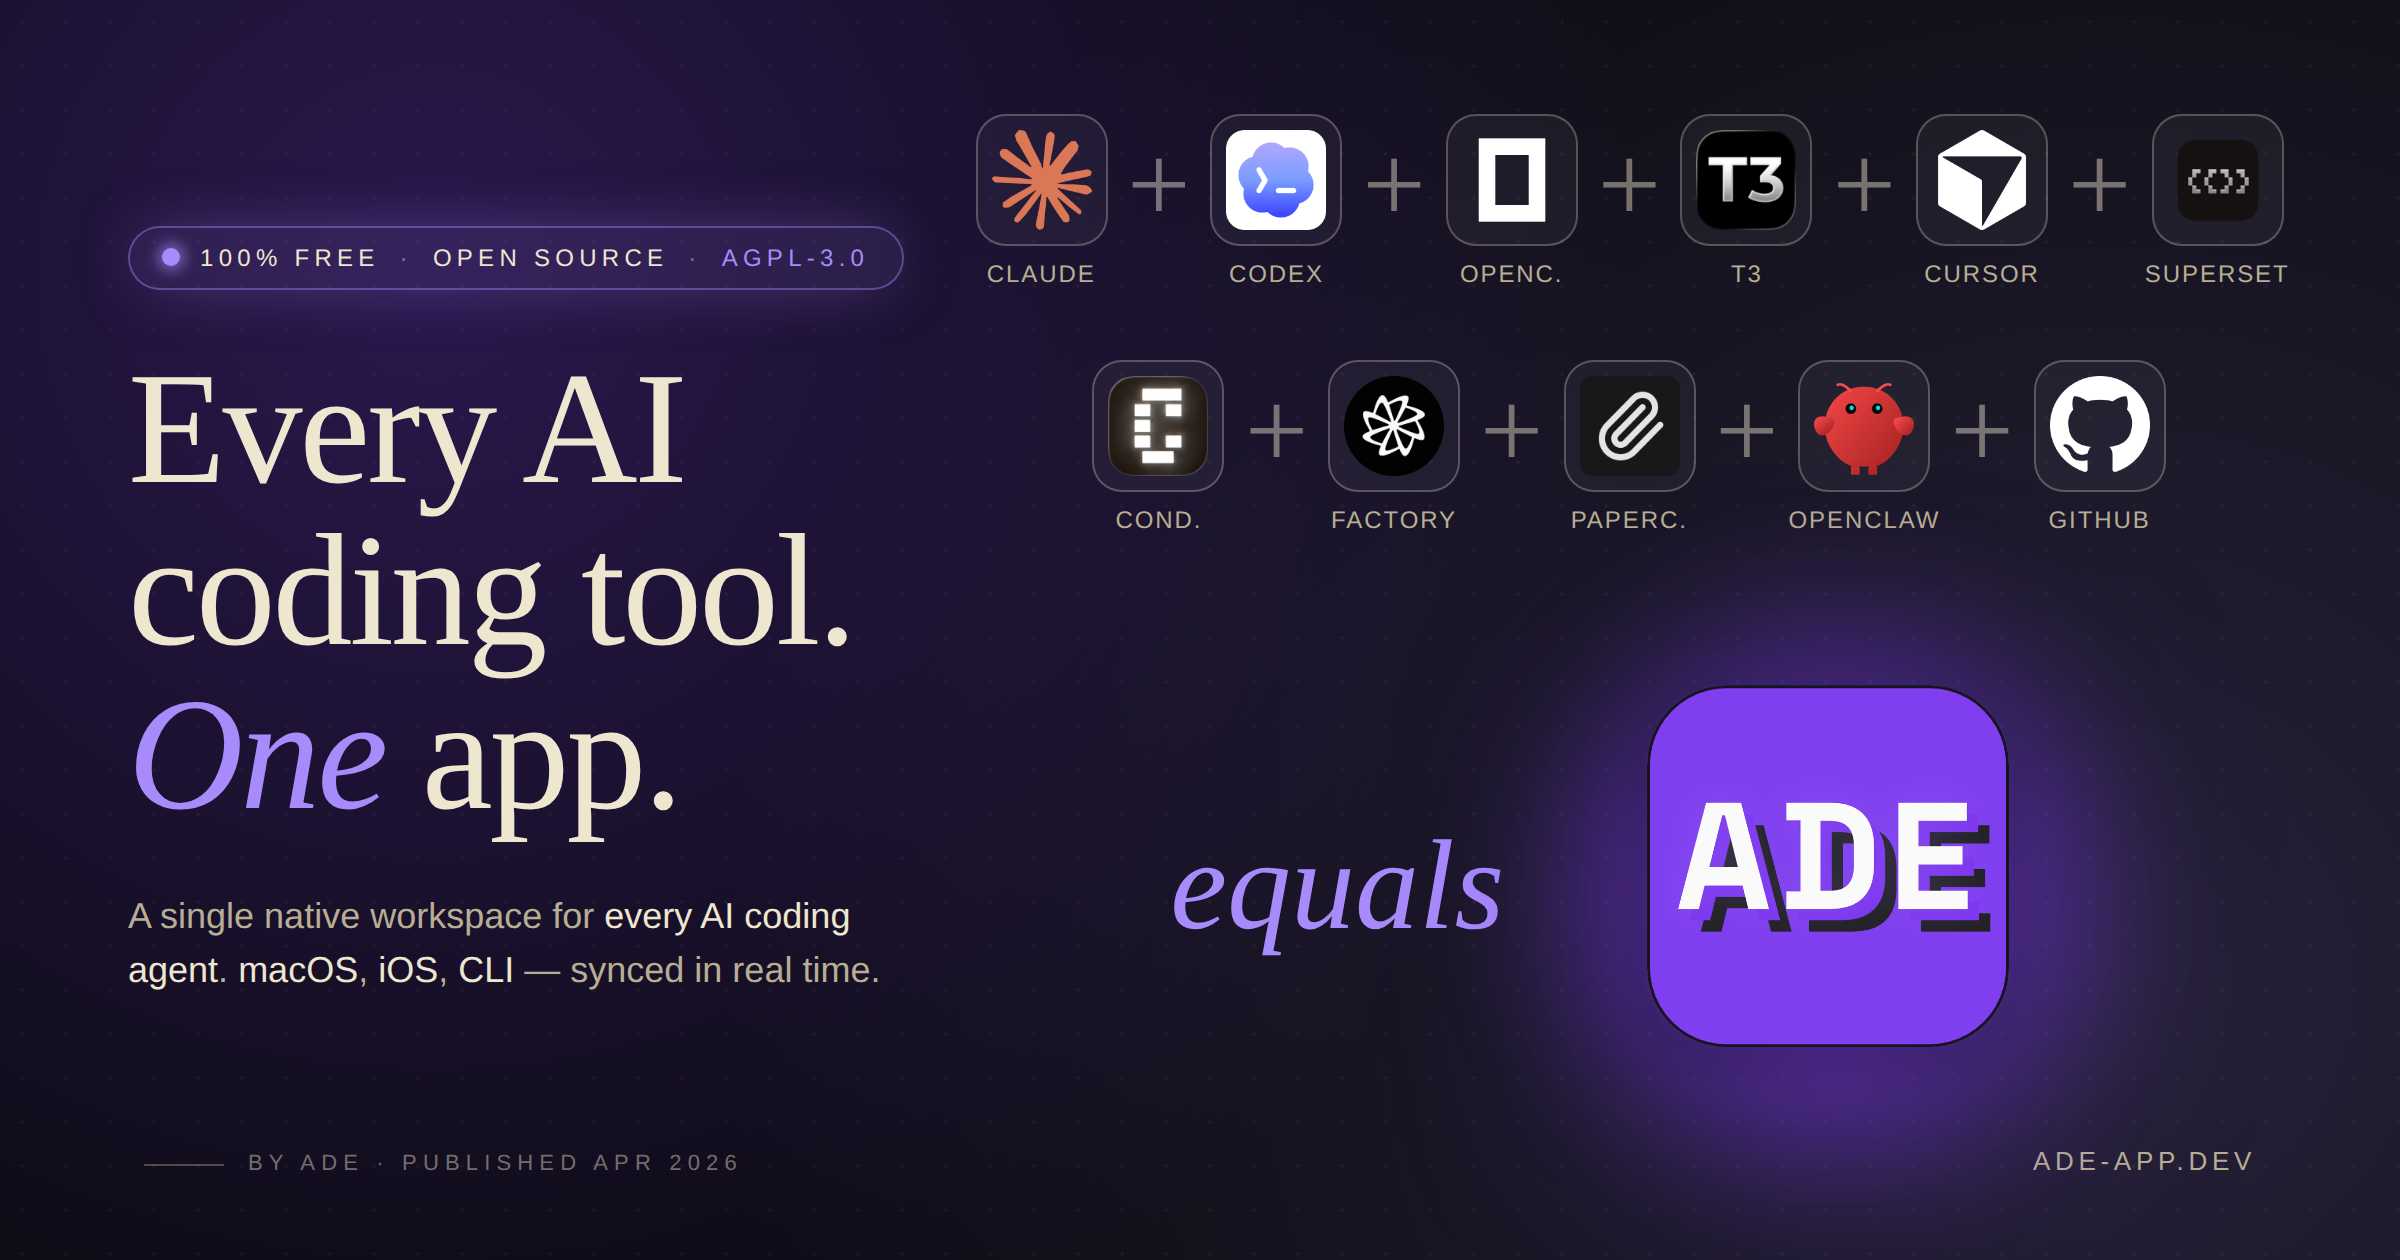
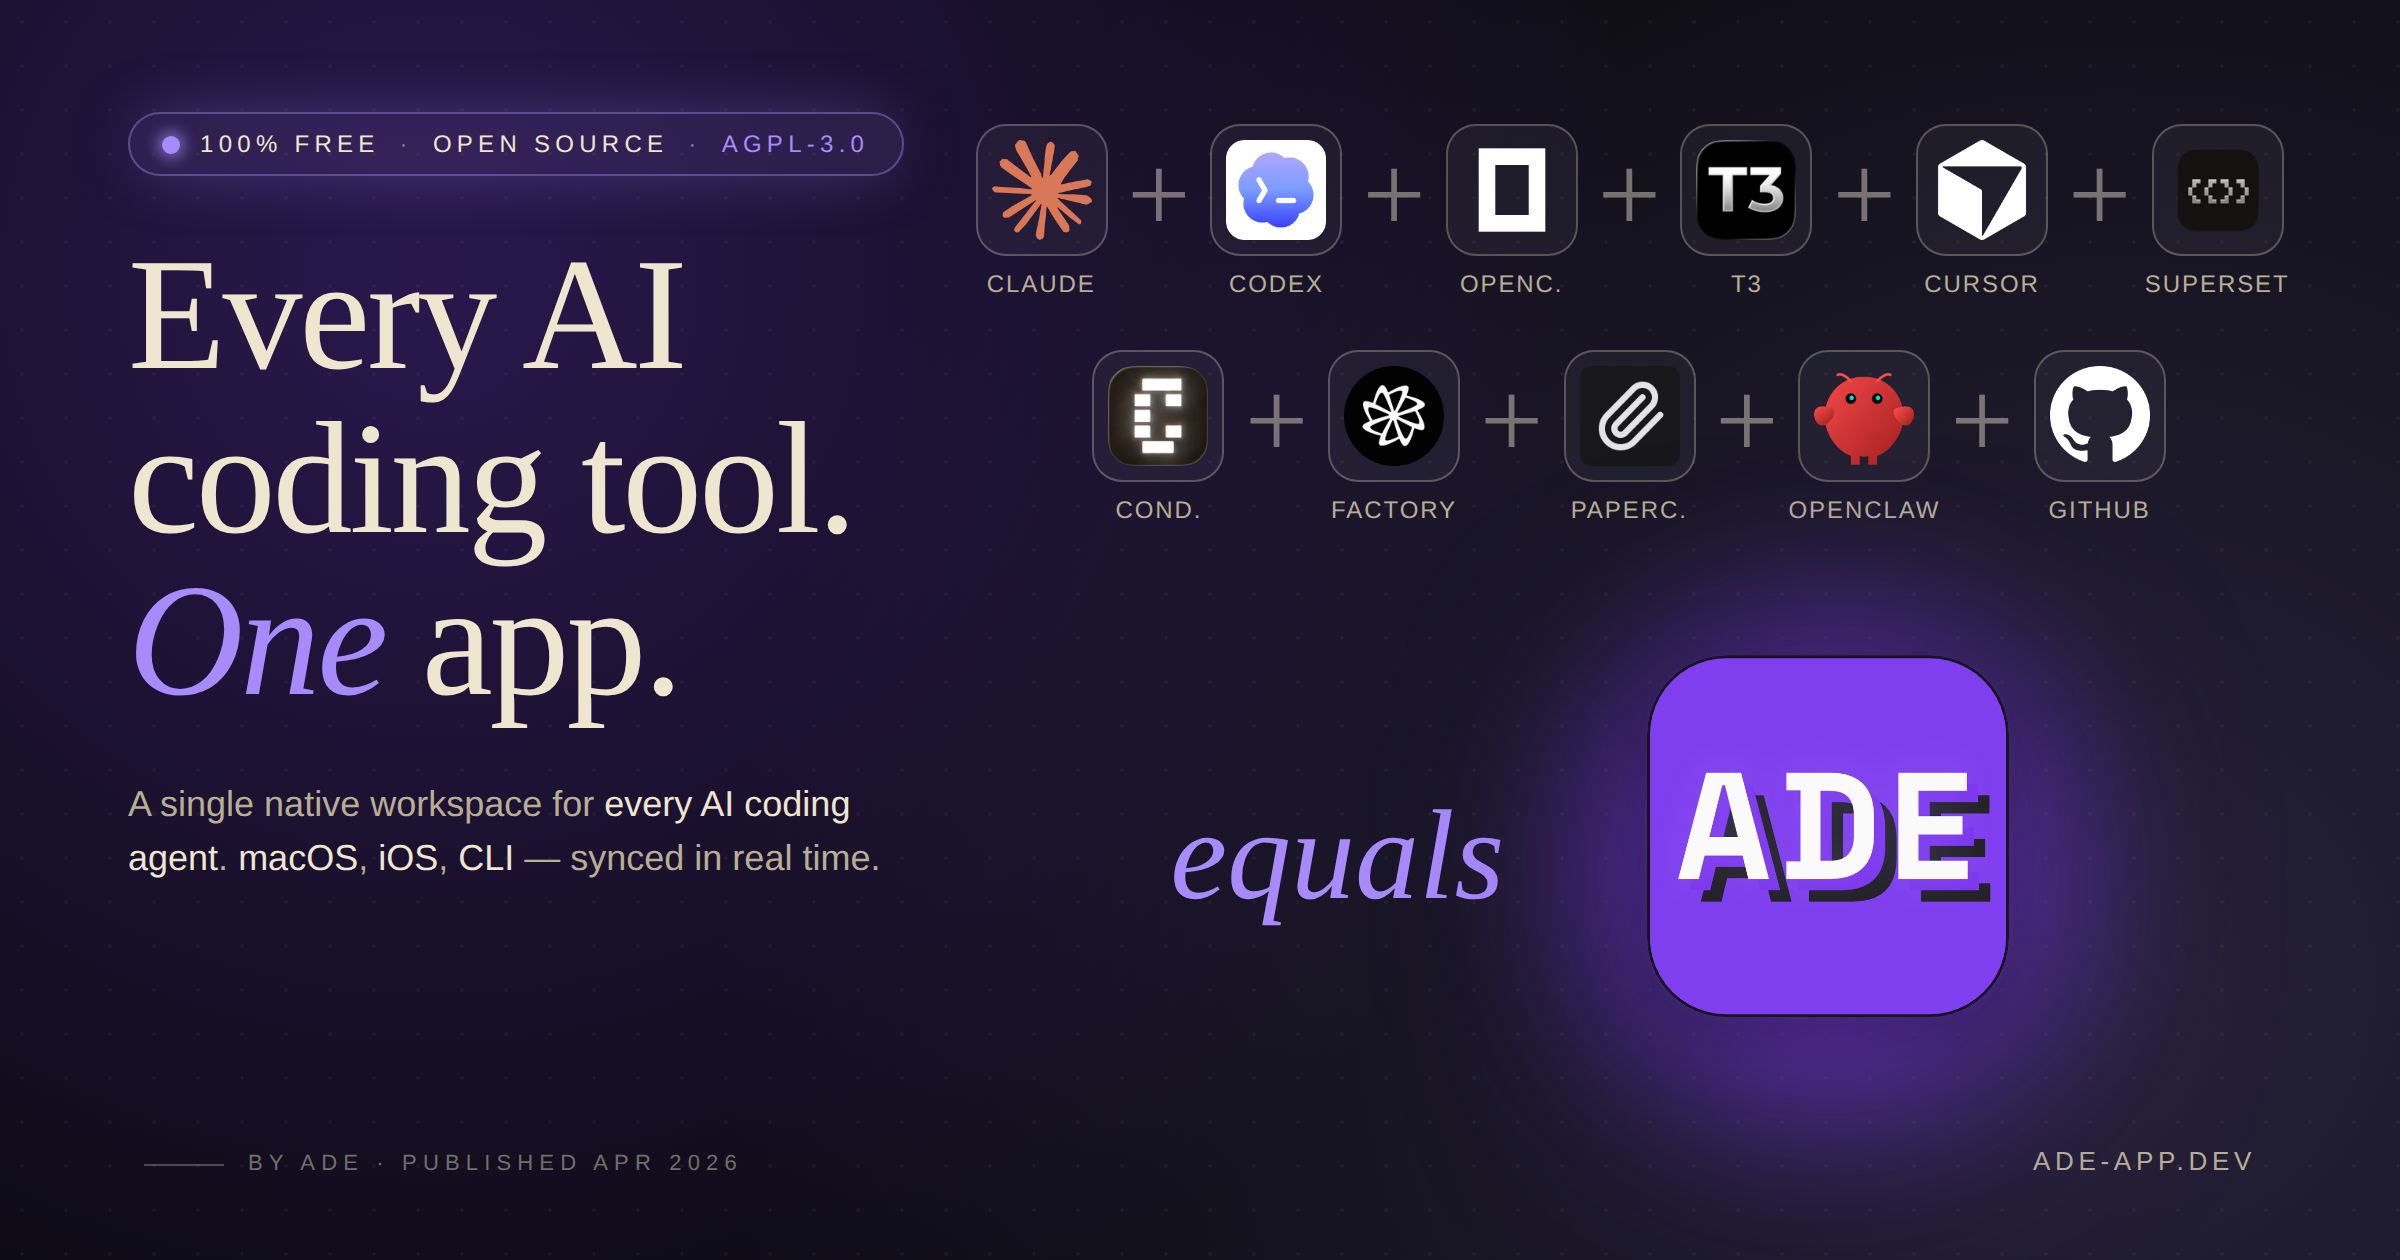
Align og-image columns and add devices variant template
Fixes the vertical offset between the pill on the left and the
competitor grid on the right by switching the page grid to
align-items:start with matching top padding.

Also adds apps/web/scripts/og-image-devices.html as an alternate
composition that mirrors the live hero (MacBook + iPhone with
violet halo) in case we want to showcase the macOS/iOS/CLI story
over the competitor equation. The generator script now accepts
optional source/output arguments so either template can be
rendered on demand. The shipped og-image.png continues to use the
competitor equation.

diff --git a/apps/web/scripts/og-image-devices.html b/apps/web/scripts/og-image-devices.html
@@ -1,0 +1,357 @@
+<!doctype html>
+<html lang="en">
+  <head>
+    <meta charset="UTF-8" />
+    <title>ADE — OG Image (Devices)</title>
+    <link rel="preconnect" href="https://fonts.googleapis.com" />
+    <link rel="preconnect" href="https://fonts.gstatic.com" crossorigin />
+    <link
+      href="https://fonts.googleapis.com/css2?family=Instrument+Serif:ital@0;1&family=Inter+Tight:wght@400;500;600;700&display=swap"
+      rel="stylesheet"
+    />
+    <style>
+      :root {
+        --color-bg: #0a0a0f;
+        --color-cream: #efe6d0;
+        --color-cream-muted: #b8ae94;
+        --color-cream-faint: rgba(239, 230, 208, 0.45);
+        --color-hairline: rgba(239, 230, 208, 0.14);
+        --color-hairline-strong: rgba(239, 230, 208, 0.28);
+        --color-violet-bright: #a78bfa;
+      }
+
+      * { box-sizing: border-box; }
+
+      html, body {
+        margin: 0;
+        padding: 0;
+        width: 1200px;
+        height: 630px;
+        overflow: hidden;
+      }
+
+      body {
+        font-family: "Inter Tight", -apple-system, BlinkMacSystemFont, sans-serif;
+        color: var(--color-cream);
+        background-color: var(--color-bg);
+        background-image:
+          radial-gradient(circle at 18% 22%, rgba(124, 58, 237, 0.28), transparent 55%),
+          radial-gradient(circle at 88% 78%, rgba(167, 139, 250, 0.22), transparent 60%),
+          radial-gradient(rgba(239, 230, 208, 0.045) 1px, transparent 1px);
+        background-size: auto, auto, 22px 22px;
+        background-position: 0 0, 0 0, 0 0;
+      }
+
+      .page {
+        position: relative;
+        width: 1200px;
+        height: 630px;
+        padding: 64px 64px 96px;
+        display: grid;
+        grid-template-columns: 0.92fr 1.08fr;
+        gap: 36px;
+        align-items: start;
+      }
+
+      /* ---------------- Left: Lede ---------------- */
+      .lede { position: relative; }
+
+      .pill {
+        display: inline-flex;
+        align-items: center;
+        gap: 10px;
+        padding: 8px 16px;
+        border-radius: 999px;
+        border: 1px solid rgba(167, 139, 250, 0.4);
+        background: rgba(167, 139, 250, 0.1);
+        box-shadow: 0 0 32px -8px rgba(167, 139, 250, 0.5);
+        font-size: 12px;
+        font-weight: 500;
+        text-transform: uppercase;
+        letter-spacing: 0.22em;
+        color: var(--color-cream);
+        margin-bottom: 30px;
+        white-space: nowrap;
+        width: max-content;
+        max-width: 100%;
+      }
+      .pill .ping {
+        position: relative;
+        width: 9px;
+        height: 9px;
+      }
+      .pill .ping::before,
+      .pill .ping::after {
+        content: "";
+        position: absolute;
+        inset: 0;
+        border-radius: 999px;
+        background: var(--color-violet-bright);
+      }
+      .pill .ping::before { opacity: 0.55; transform: scale(1.6); filter: blur(2px); }
+      .pill .sep { color: var(--color-cream-faint); }
+      .pill .agpl { color: var(--color-violet-bright); }
+
+      h1.headline {
+        font-family: "Instrument Serif", Georgia, "Times New Roman", serif;
+        font-weight: 400;
+        font-size: 80px;
+        line-height: 1.02;
+        letter-spacing: -0.02em;
+        margin: 0;
+        color: var(--color-cream);
+      }
+      h1.headline em {
+        font-style: italic;
+        color: var(--color-violet-bright);
+      }
+
+      .sub {
+        margin-top: 26px;
+        max-width: 44ch;
+        font-size: 18px;
+        line-height: 1.5;
+        color: var(--color-cream-muted);
+      }
+      .sub strong { font-weight: 500; color: var(--color-cream); }
+
+      .platforms {
+        margin-top: 24px;
+        display: flex;
+        flex-wrap: wrap;
+        gap: 8px;
+      }
+      .platform-tag {
+        display: inline-flex;
+        align-items: center;
+        gap: 6px;
+        padding: 6px 12px;
+        font-size: 11px;
+        font-weight: 500;
+        text-transform: uppercase;
+        letter-spacing: 0.2em;
+        color: var(--color-cream);
+        background: rgba(255, 255, 255, 0.04);
+        border: 1px solid var(--color-hairline-strong);
+        border-radius: 999px;
+      }
+      .platform-tag .dot {
+        width: 5px;
+        height: 5px;
+        border-radius: 999px;
+        background: var(--color-violet-bright);
+      }
+
+      /* ---------------- Right: Device composition ---------------- */
+      .stage {
+        position: relative;
+        width: 100%;
+        height: 480px;
+      }
+      .halo {
+        position: absolute;
+        inset: -40px -20px;
+        background: radial-gradient(
+          ellipse 58% 58% at 50% 48%,
+          rgba(124, 58, 237, 0.55) 0%,
+          rgba(124, 58, 237, 0.16) 40%,
+          transparent 75%
+        );
+        filter: blur(8px);
+        z-index: 0;
+      }
+
+      /* MacBook */
+      .mac {
+        position: absolute;
+        left: -2%;
+        top: 4%;
+        width: 82%;
+        transform: rotate(-1.6deg);
+        filter: drop-shadow(0 30px 50px rgba(0, 0, 0, 0.55));
+        z-index: 1;
+      }
+      .mac-screen {
+        position: relative;
+        aspect-ratio: 16 / 10;
+        overflow: hidden;
+        border-radius: 10px 10px 0 0;
+        border: 1px solid var(--color-hairline-strong);
+        background: #07070b;
+      }
+      .mac-screen .traffic {
+        position: absolute;
+        left: 10px;
+        top: 9px;
+        z-index: 3;
+        display: flex;
+        gap: 5px;
+      }
+      .mac-screen .traffic span {
+        width: 9px;
+        height: 9px;
+        border-radius: 999px;
+      }
+      .mac-screen .traffic .red { background: #ff5f57; }
+      .mac-screen .traffic .yellow { background: #febc2e; }
+      .mac-screen .traffic .green { background: #28c840; }
+      .mac-screen img {
+        width: 100%;
+        height: 100%;
+        object-fit: cover;
+        object-position: top;
+      }
+      .mac-base {
+        position: relative;
+        height: 10px;
+        border-left: 1px solid var(--color-hairline);
+        border-right: 1px solid var(--color-hairline);
+        border-bottom: 1px solid var(--color-hairline);
+        border-radius: 0 0 14px 14px;
+        background: linear-gradient(180deg, #1e1e24, #0d0d12);
+      }
+      .mac-base::before {
+        content: "";
+        position: absolute;
+        left: 50%;
+        top: 0;
+        width: 80px;
+        height: 3px;
+        transform: translateX(-50%);
+        border-radius: 0 0 3px 3px;
+        background: rgba(0, 0, 0, 0.6);
+      }
+
+      /* iPhone */
+      .phone {
+        position: absolute;
+        right: 2%;
+        bottom: -4%;
+        width: 30%;
+        transform: rotate(3.4deg);
+        filter: drop-shadow(0 30px 50px rgba(124, 58, 237, 0.55));
+        z-index: 2;
+      }
+      .phone-body {
+        position: relative;
+        aspect-ratio: 9 / 19.5;
+        overflow: hidden;
+        border-radius: 32px;
+        border: 6px solid #0c0c12;
+        background: #000;
+        box-shadow: 0 0 0 1px var(--color-hairline-strong);
+      }
+      .phone-body .notch {
+        position: absolute;
+        left: 50%;
+        top: 7px;
+        z-index: 2;
+        width: 44%;
+        height: 20px;
+        transform: translateX(-50%);
+        border-radius: 999px;
+        background: #000;
+      }
+      .phone-body img {
+        width: 100%;
+        height: 100%;
+        object-fit: cover;
+        object-position: left top;
+      }
+      .phone-body::after {
+        content: "";
+        position: absolute;
+        inset: 0;
+        border-radius: 26px;
+        box-shadow: inset 0 0 40px rgba(124, 58, 237, 0.35);
+        pointer-events: none;
+      }
+
+      /* ---------------- Footer mark ---------------- */
+      .wordmark {
+        position: absolute;
+        left: 72px;
+        bottom: 42px;
+        display: flex;
+        align-items: center;
+        gap: 12px;
+        font-size: 11px;
+        text-transform: uppercase;
+        letter-spacing: 0.28em;
+        color: var(--color-cream-faint);
+      }
+      .wordmark .rule {
+        width: 40px;
+        height: 1px;
+        background: var(--color-hairline-strong);
+      }
+
+      .domain {
+        position: absolute;
+        right: 72px;
+        bottom: 42px;
+        font-size: 13px;
+        letter-spacing: 0.18em;
+        text-transform: uppercase;
+        color: var(--color-cream-muted);
+      }
+    </style>
+  </head>
+  <body>
+    <div class="page">
+      <div class="lede">
+        <div class="pill">
+          <span class="ping"></span>
+          100% Free
+          <span class="sep">·</span>
+          Open source
+          <span class="sep">·</span>
+          <span class="agpl">AGPL-3.0</span>
+        </div>
+        <h1 class="headline">
+          Every AI<br />
+          coding tool.<br />
+          <em>One</em> app.
+        </h1>
+        <p class="sub">
+          A single native workspace for
+          <strong>every AI coding agent</strong> — synced in real time.
+        </p>
+        <div class="platforms">
+          <span class="platform-tag"><span class="dot"></span>macOS</span>
+          <span class="platform-tag"><span class="dot"></span>iOS</span>
+          <span class="platform-tag"><span class="dot"></span>CLI</span>
+        </div>
+      </div>
+
+      <div class="stage">
+        <div class="halo"></div>
+
+        <div class="mac">
+          <div class="mac-screen">
+            <div class="traffic">
+              <span class="red"></span>
+              <span class="yellow"></span>
+              <span class="green"></span>
+            </div>
+            <img src="../public/images/screenshots/lanes.png" alt="ADE on macOS" />
+          </div>
+          <div class="mac-base"></div>
+        </div>
+
+        <div class="phone">
+          <div class="phone-body">
+            <div class="notch"></div>
+            <img src="../public/images/screenshots/agent-chat.png" alt="ADE on iOS" />
+          </div>
+        </div>
+      </div>
+
+      <div class="wordmark">
+        <span class="rule"></span>
+        By ADE · Published Apr 2026
+      </div>
+      <div class="domain">ade-app.dev</div>
+    </div>
+  </body>
+</html>

diff --git a/apps/web/scripts/og-image.html b/apps/web/scripts/og-image.html
@@ -46,11 +46,11 @@
         position: relative;
         width: 1200px;
         height: 630px;
-        padding: 56px 64px;
+        padding: 56px 64px 96px;
         display: grid;
         grid-template-columns: 1fr 1fr;
         gap: 36px;
-        align-items: center;
+        align-items: start;
       }
 
       /* ---------------- Left: Lede ---------------- */
@@ -139,8 +139,9 @@
         display: flex;
         flex-direction: column;
         align-items: center;
-        justify-content: center;
-        gap: 36px;
+        justify-content: flex-start;
+        gap: 26px;
+        padding-top: 6px;
       }
 
       .row {
